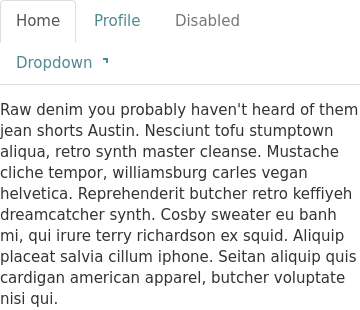
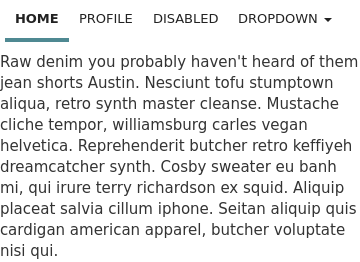
feat: add tabs component (#76)
* feat(tabs): first iteration
based on datastreams mockups

* Update screenshots generated from PhantomCSS

* using buttons instead of links.

* Update screenshots generated from PhantomCSS

* fixes, following ux team specs

* fix linting

* following review, small enhancement

* fixes following peer review

* fix HTML markup

* add a justified example
remove useless elements

* phantomcss entry

* fixed various id

diff --git a/example/index.html b/example/index.html
@@ -688,13 +688,13 @@
             <h2 id="nav-tabs">Tabs</h2>
             <div class="bs-component">
               <ul class="nav nav-tabs">
-                <li class="active"><a href="#home" data-toggle="tab">Home</a></li>
-                <li><a href="#profile" data-toggle="tab">Profile</a></li>
-                <li class="disabled"><a>Disabled</a></li>
+                <li class="active"><button data-target="#home" data-toggle="tab">Home</button></li>
+                <li><button data-target="#profile" data-toggle="tab">Profile</button></li>
+                <li class="disabled"><button disabled>Disabled</button></li>
                 <li class="dropdown">
-                  <a class="dropdown-toggle" data-toggle="dropdown" href="#">
+                  <button class="dropdown-toggle" data-toggle="dropdown">
                     Dropdown <span class="caret"></span>
-                  </a>
+                  </button>
                   <ul class="dropdown-menu">
                     <li><a href="#dropdown1" data-toggle="tab">Action</a></li>
                     <li class="divider"></li>
@@ -714,6 +714,22 @@
                 </div>
                 <div class="tab-pane fade" id="dropdown2">
                   <p>Trust fund seitan letterpress, keytar raw denim keffiyeh etsy art party before they sold out master cleanse gluten-free squid scenester freegan cosby sweater. Fanny pack portland seitan DIY, art party locavore wolf cliche high life echo park Austin. Cred vinyl keffiyeh DIY salvia PBR, banh mi before they sold out farm-to-table VHS viral locavore cosby sweater.</p>
+                </div>
+              </div>
+            </div>
+            <h2 id="nav-tabs-justified">Tabs justified</h2>
+            <div class="bs-component">
+              <ul class="nav nav-tabs nav-justified">
+                <li class="active"><button data-target="#homejustified" data-toggle="tab">Home</button></li>
+                <li><button data-target="#profilejustified" data-toggle="tab">Profile</button></li>
+                <li class="disabled"><button>Disabled</button></li>
+              </ul>
+              <div id="myJustifiedTabContent" class="tab-content">
+                <div class="tab-pane fade active in" id="homejustified">
+                  <p>Raw denim you probably haven't heard of them jean shorts Austin. Nesciunt tofu stumptown aliqua, retro synth master cleanse. Mustache cliche tempor, williamsburg carles vegan helvetica. Reprehenderit butcher retro keffiyeh dreamcatcher synth. Cosby sweater eu banh mi, qui irure terry richardson ex squid. Aliquip placeat salvia cillum iphone. Seitan aliquip quis cardigan american apparel, butcher voluptate nisi qui.</p>
+                </div>
+                <div class="tab-pane fade" id="profilejustified">
+                  <p>Food truck fixie locavore, accusamus mcsweeney's marfa nulla single-origin coffee squid. Exercitation +1 labore velit, blog sartorial PBR leggings next level wes anderson artisan four loko farm-to-table craft beer twee. Qui photo booth letterpress, commodo enim craft beer mlkshk aliquip jean shorts ullamco ad vinyl cillum PBR. Homo nostrud organic, assumenda labore aesthetic magna delectus mollit.</p>
                 </div>
               </div>
             </div>

diff --git a/src/theme/_navs.scss b/src/theme/_navs.scss
@@ -65,4 +65,48 @@
 			}
 		}
 	}
+
+	&-tabs {
+		border: none;
+		font-size: $font-size-small;
+
+		> li {
+
+			&.active {
+
+				button {
+					box-shadow: 0 -2px 0 $brand-primary inset;
+				}
+			}
+
+			&.disabled button {
+				cursor: not-allowed;
+				color: rgba(1, 1, 1, 0.4);
+
+				&:focus, 
+				&:hover {
+					background: transparent;
+				}
+			}
+
+			> button {
+				background: transparent;
+				border: none;
+				color: rgba(1, 1, 1, 0.6);
+				letter-spacing: 0.6px;
+				line-height: 1;
+				outline: none;
+				padding: $padding-normal;
+				text-transform: uppercase;
+
+				&:focus {
+					background: rgba(0, 0, 0, 0.06);
+				}
+
+				&:hover {
+					background: rgba(0, 0, 0, 0.03);
+				}
+			}
+		}
+	}
 }
